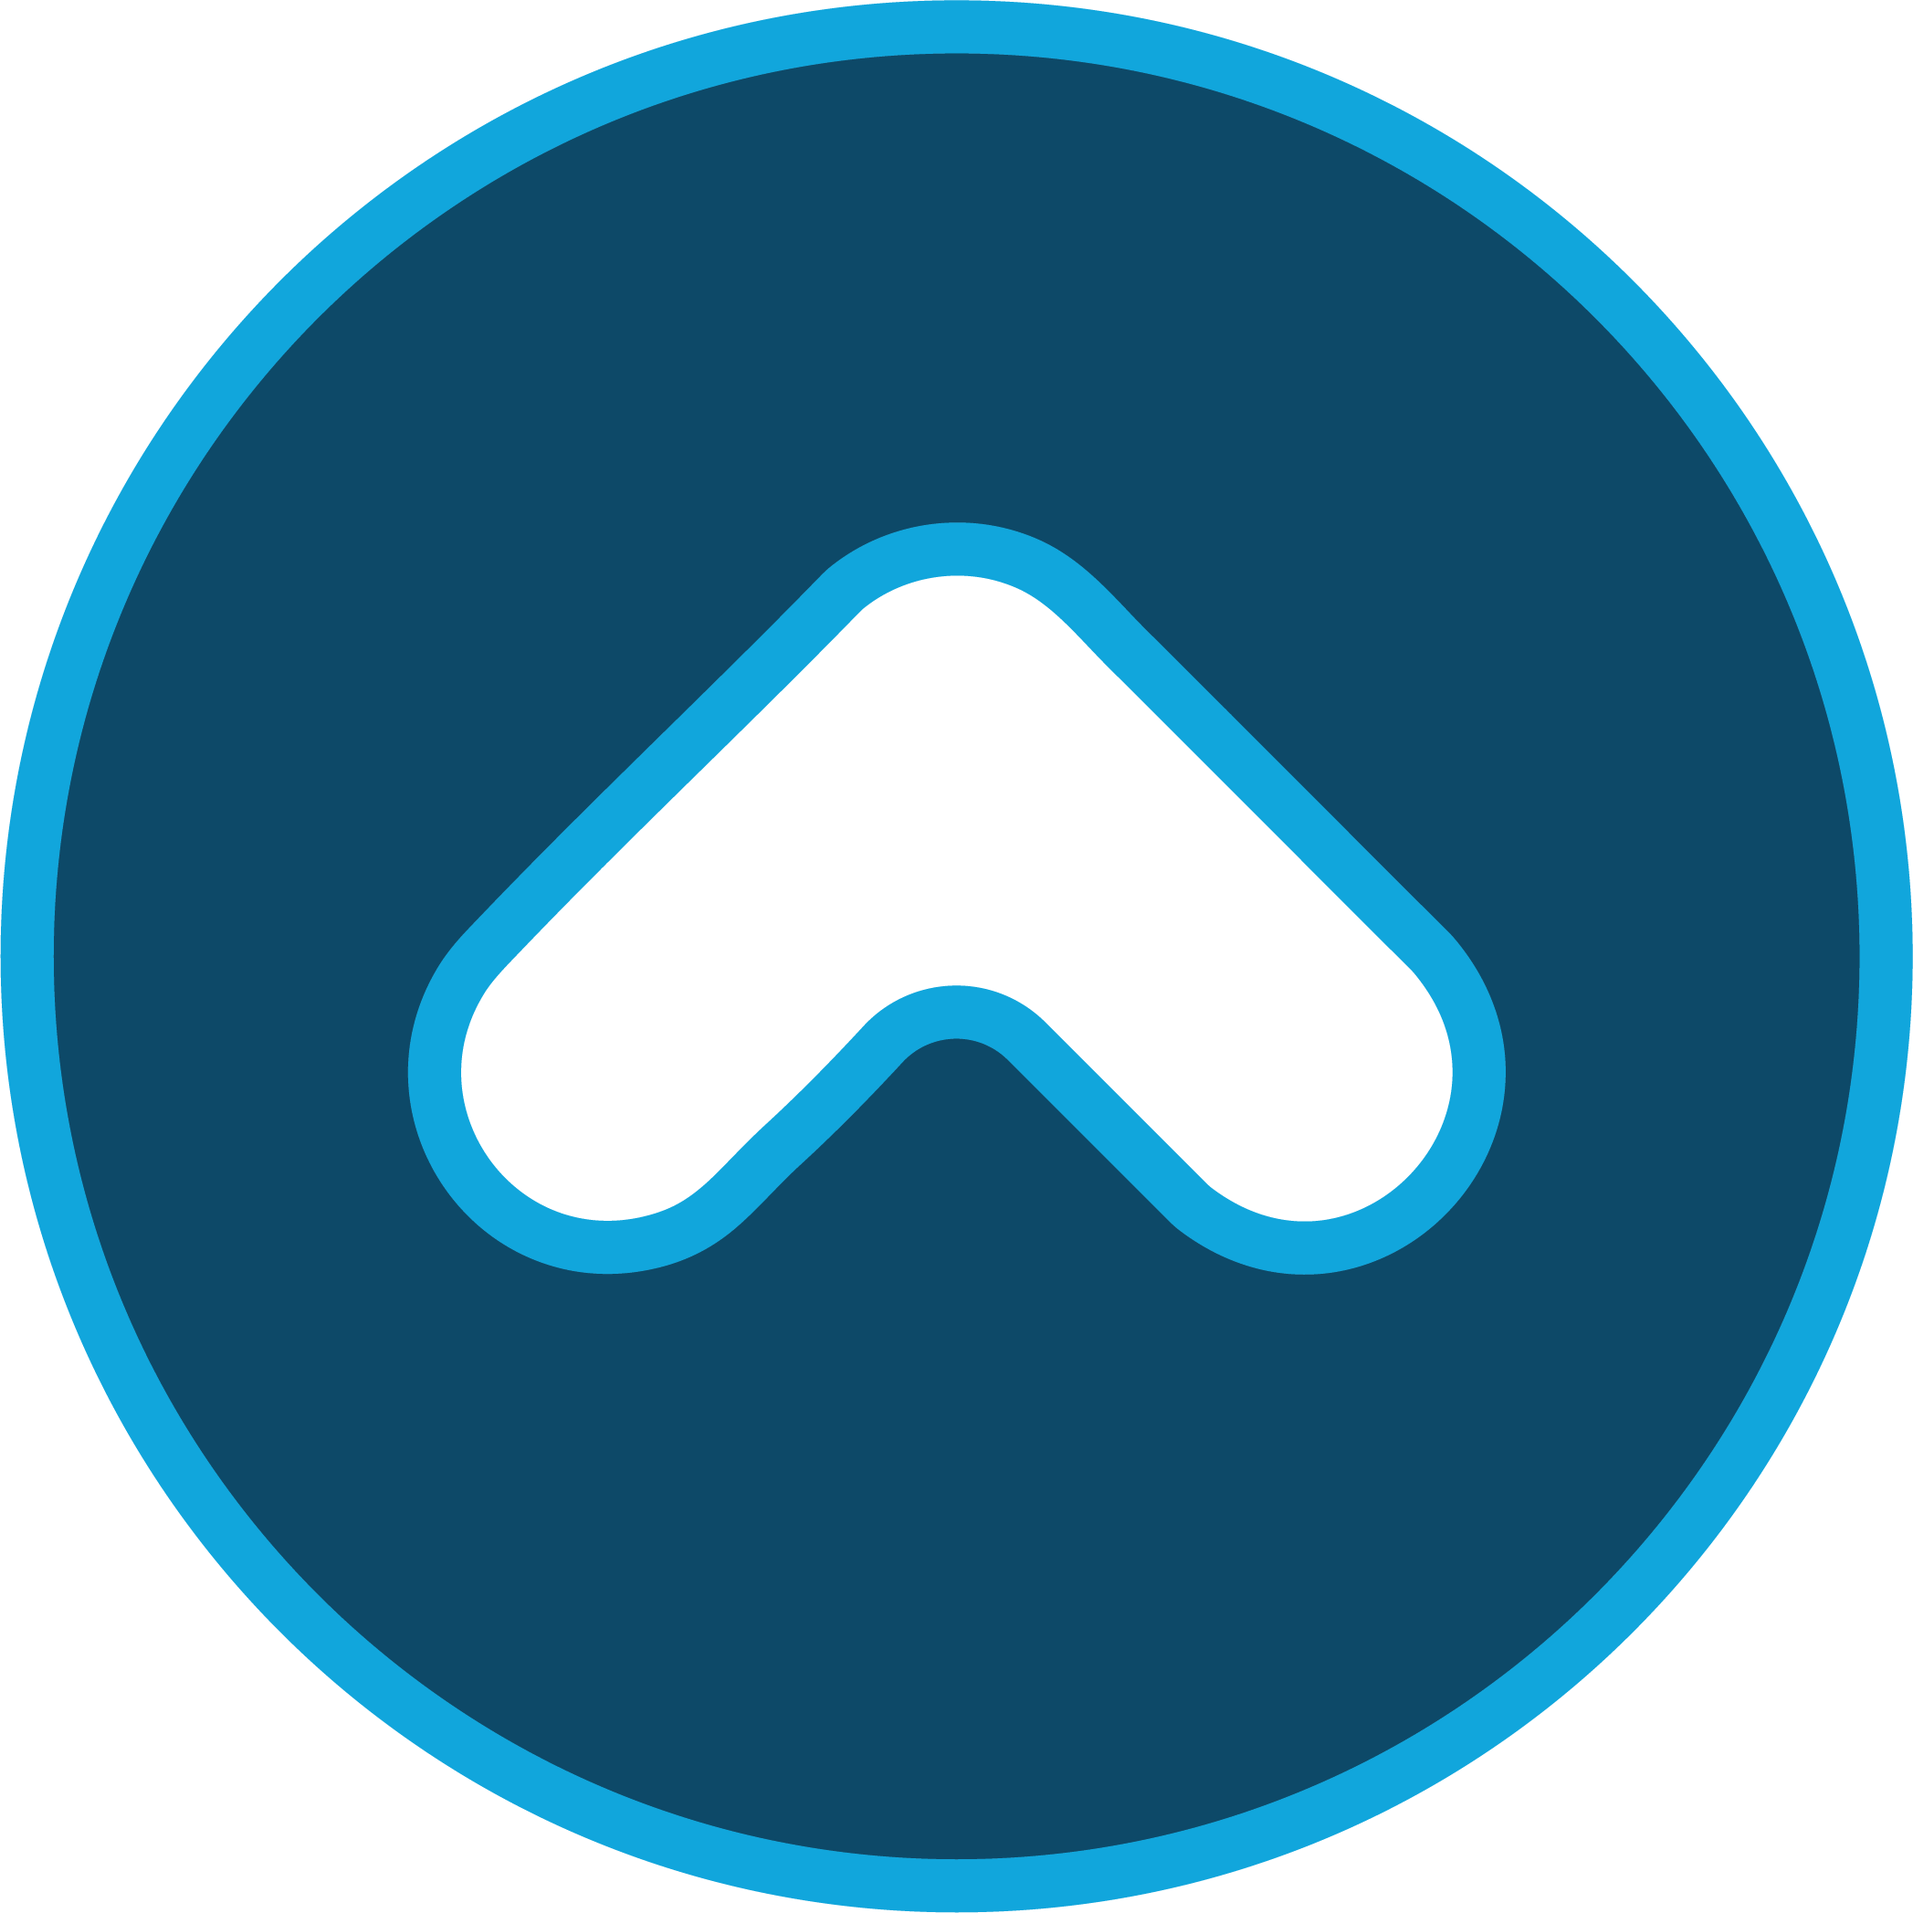
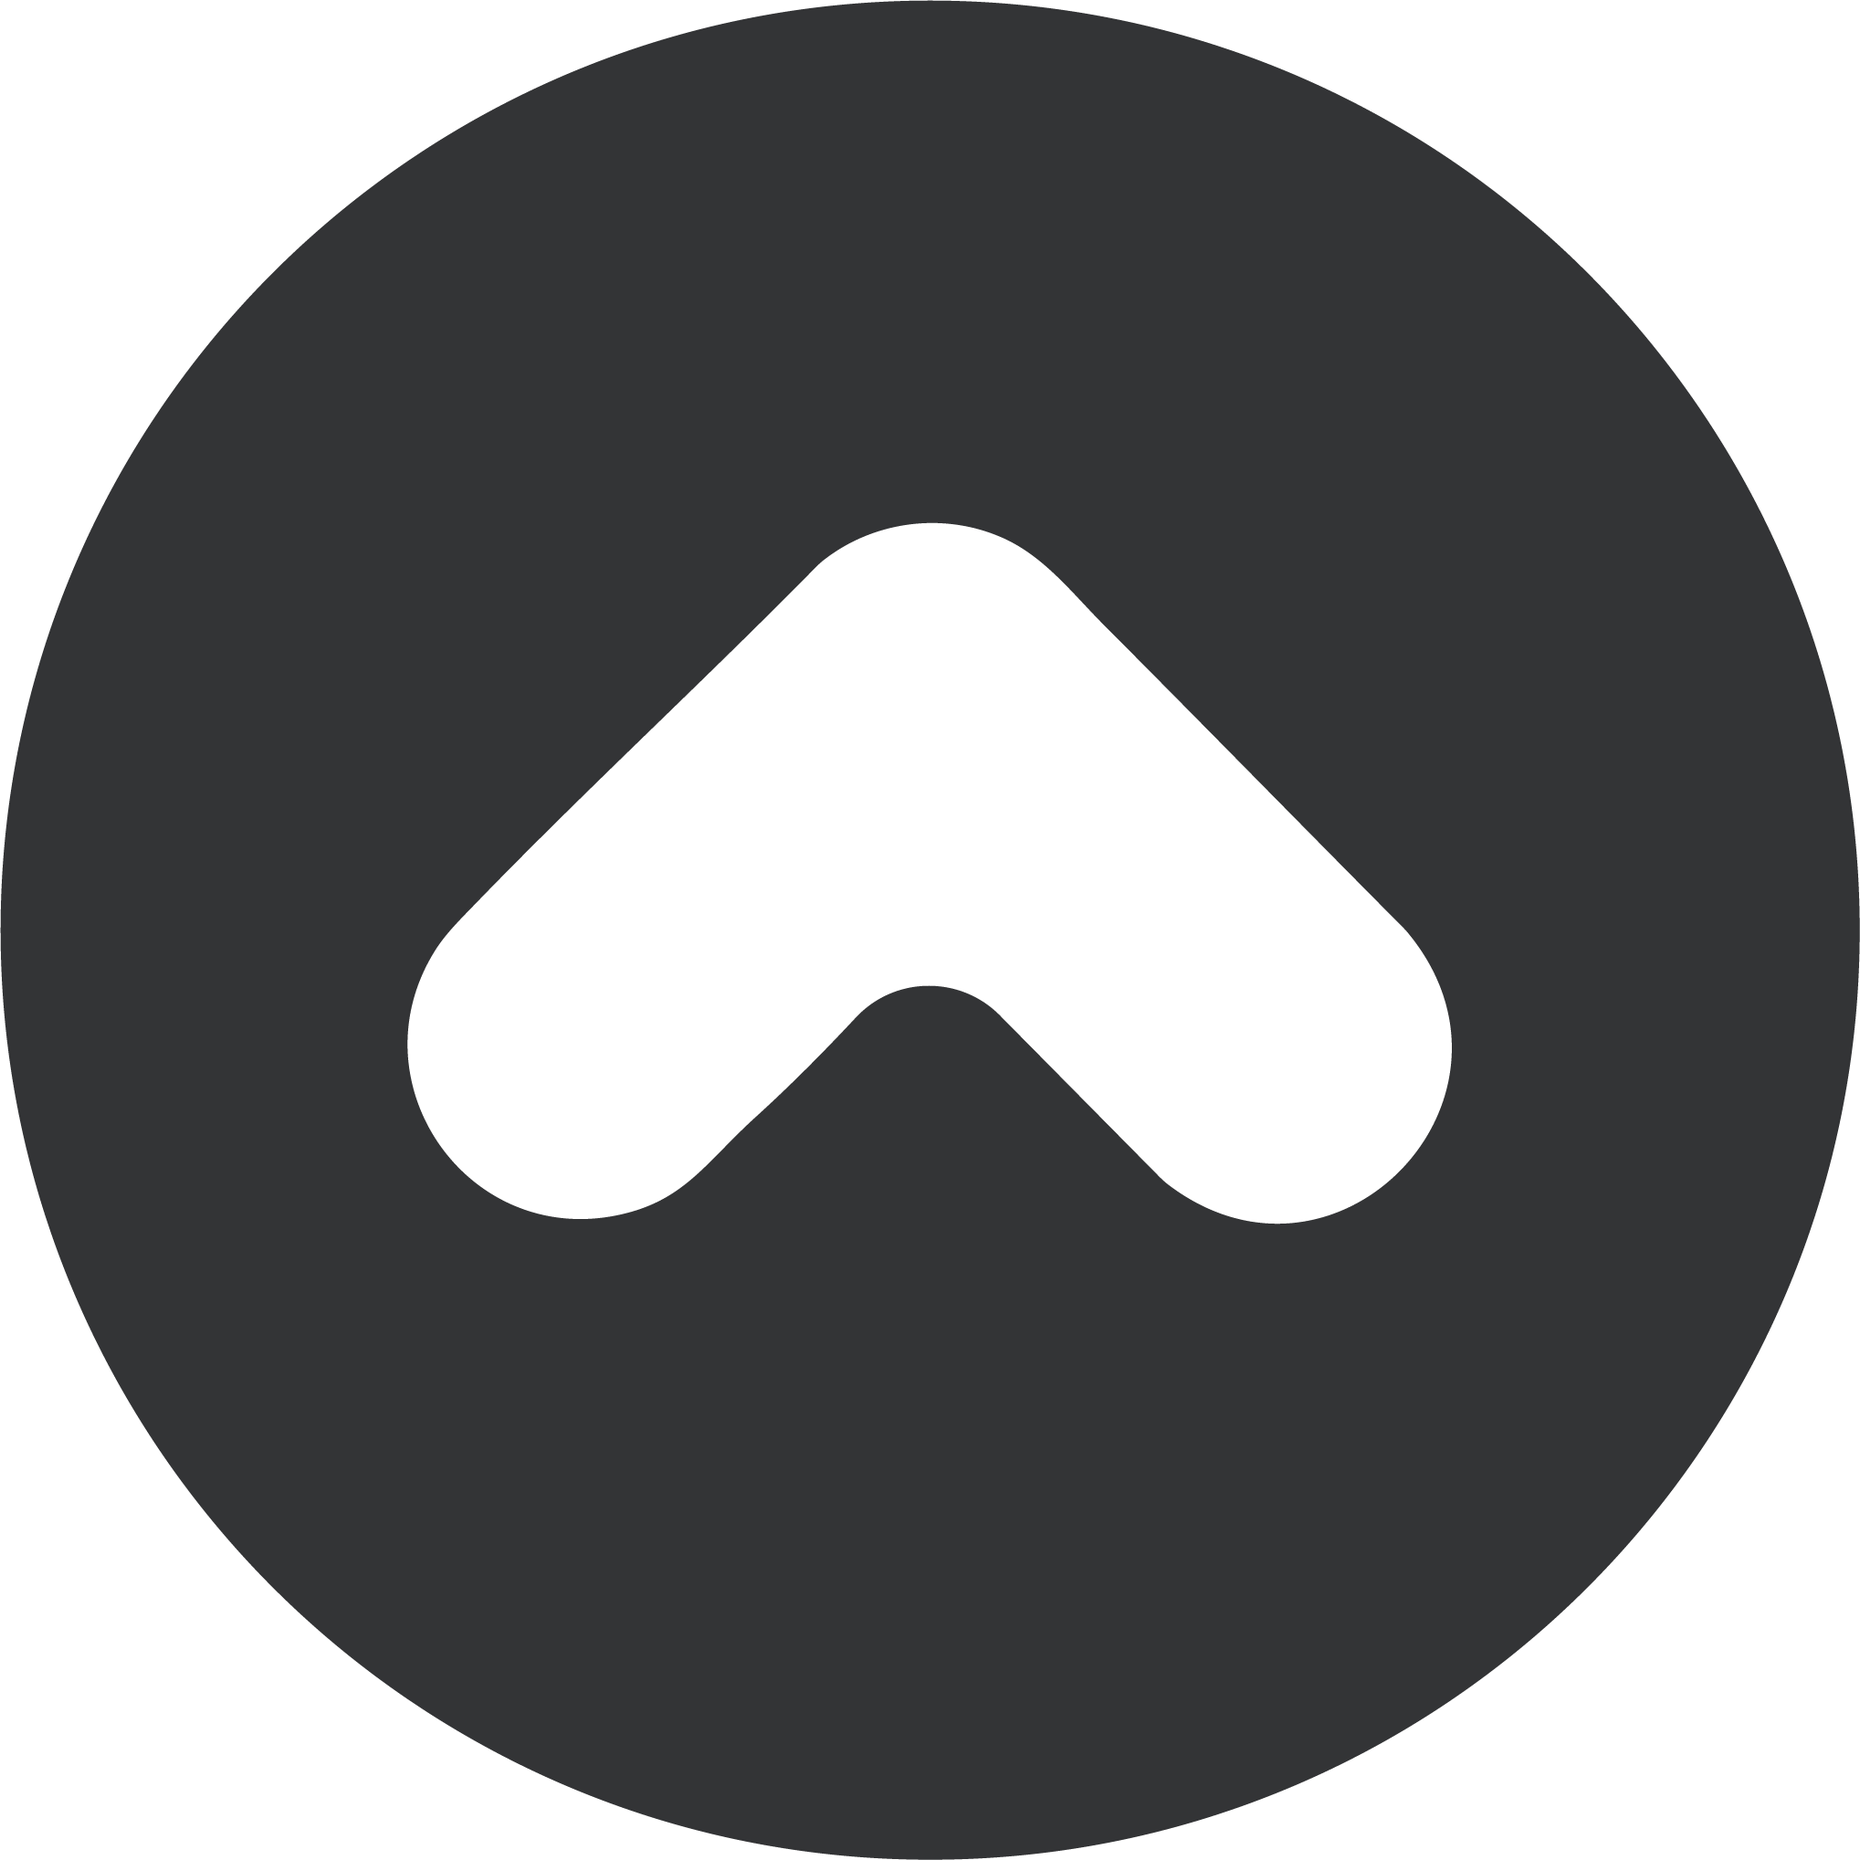
Colores de los iconos del footer cambiados a negro

diff --git a/src/app/ui/dashboard/footer.tsx b/src/app/ui/dashboard/footer.tsx
@@ -65,7 +65,7 @@ export default function Footer() {
                             </a>
                         </div>
                         
-                        <button className="bg-blue-600 hover:bg-blue-700 text-white font-medium rounded-full px-9 py-2 text-lg transition-colors shadow-md">
+                        <button className="bg-blue-600 hover:bg-blue-700 text-white font-medium rounded-full px-10 py-2 text-lg transition-colors shadow-md">
                             Escríbenos
                         </button>
                     </div>
